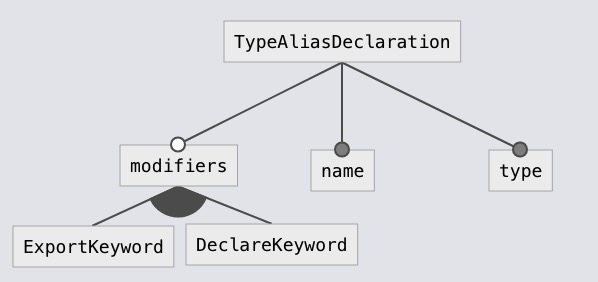
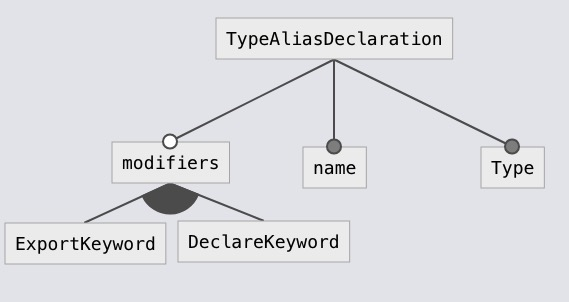
type alias feedback

diff --git a/groupMembersModel/typeAlias/code.ts b/groupMembersModel/typeAlias/code.ts
@@ -21,7 +21,7 @@ export const TypeAliasDeclaration: FeatureModel = {
       parentRelation: "mandatory",
     },
     {
-      name: "type",
+      name: "Type",
       parentRelation: "mandatory",
     },
   ],
